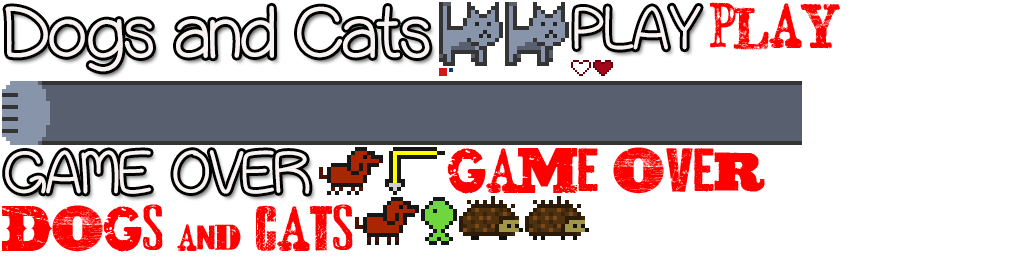
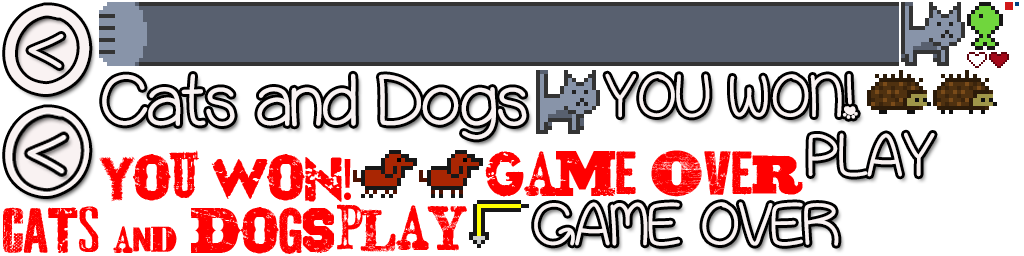
Added mobile touch controls

diff --git a/js/main.js b/js/main.js
@@ -119,7 +119,8 @@
             jumpedAt = 0,
             paw,
             pawTween,
-            pawHealth = 5;
+            pawHealth = 5,
+            controls;
 
         function create() {
             // init
@@ -173,7 +174,7 @@
             game.camera.follow(hero);
             
             // gun
-            gun = game.add.sprite(600, 400, 'entities', 'gun');
+            gun = game.add.sprite(3800, 50, 'entities', 'gun');
             gun.anchor.setTo(0.5, 1);
             bullets = game.add.group();
 
@@ -190,11 +191,15 @@
 
             // hud
             hud = new HUD();
+
+            // controls
+            controls = new Controls();
         }
 
         function update() {
             // hud
             hud.update();
+            controls.update();
             
             // collide the hero with the map
             game.physics.collide(hero, layer, function(h, t) {
@@ -220,6 +225,11 @@
                     }
                     else if(game.time.now - hurtAt > hurtNext) {
                         heroHealth --;
+                        var sign = e.x - h.x > 0 ? -1 : 1;
+                        h.body.velocity.x = 1000 * sign;
+                        if(h.body.touching.down) {
+                            h.body.velocity.y = -200;
+                        }
                         hurtAt = game.time.now;
                     }
                 });
@@ -230,7 +240,7 @@
                         enemy.scale.x = enemy.body.velocity.x > 0 ? 1 : -1;
                         enemy.animations.play('walk');
                     }
-                    if(enemy.body.velocity.y < 1 && ( enemy.body.touching.left || enemy.body.touching.right ) ) {
+                    if(enemy.body.velocity.y < 1 && enemy.body.touching.down && ( enemy.body.touching.left || enemy.body.touching.right ) ) {
                         enemy.body.velocity.y = -200 + Math.random() * 200;
                         enemy.body.velocity.x = enemy.scale.x > 0 ? enemyVelocity : -enemyVelocity;
                     }
@@ -256,20 +266,22 @@
             // hero movement
             hero.body.velocity.x = 0;
 
-            if (cursors.left.isDown) {
+            if (controls.left() || cursors.left.isDown) {
                 hero.body.velocity.x = -150;
                 hero.scale.x = -1;
             }
-            else if (cursors.right.isDown) {
+            else if (controls.right() || cursors.right.isDown) {
                 hero.body.velocity.x = 150;
                 hero.scale.x = 1;
             }
             //  jump
-            if (cursors.up.isDown && hero.body.touching.down) {
+            var jumping = controls.jump() || cursors.up.isDown;
+            if (jumping && hero.body.touching.down) {
                 hero.body.velocity.y = -300;
                 jumpedAt = game.time.now;
+                //console.log('x is ', hero.x);
             }
-            else if (cursors.up.isDown && hero.body.velocity.y < 0 && hero.body.velocity.y > -600 && game.time.now - jumpedAt < 200) {
+            else if (jumping && hero.body.velocity.y < 0 && hero.body.velocity.y > -600 && game.time.now - jumpedAt < 200) {
                 hero.body.velocity.y = hero.body.velocity.y - 40;
             }
             // animation
@@ -318,7 +330,7 @@
         function updateLevel() {
            switch(level.id) {
                 case 'level1':
-                     if(Math.random() > 0.5 && enemies.length < 25 && game.time.now - enemyAddedAt > 5000) {
+                     if(Math.random() > 0.5 && enemies.length < 25 && game.time.now - enemyAddedAt > 3000) {
                         addEnemy();
                         enemyAddedAt = game.time.now;
                     }
@@ -356,7 +368,7 @@
                             .to({x: xVel}, 1000)
                             .delay(delay)
                             .onComplete.add(function() {
-                                console.log('onPawComplete')
+                                console.log('onPawComplete');
                             });
                         pawTween.start();
                     }
@@ -510,6 +522,66 @@
         return {
             'create': create,
             'update': update
+        };
+    }
+
+    function Controls() {
+        var container,
+            btnLeft,
+            btnRight,
+            btnJump,
+            btnShoot,
+            leftDown = false,
+            rightDown = false,
+            jumpDown = false,
+            shootDown = false;
+
+        container = game.add.group();
+        container.x = container.y = 0;
+
+        btnLeft = new Phaser.Button(game, 20, 370, 'entities', null, null, 'btn_up', 'btn_up', 'btn_down');
+        container.add(btnLeft);
+        btnLeft.onInputDown.add(function() {
+            leftDown = true;
+        });
+        btnLeft.onInputUp.add(function() {
+            leftDown = false;
+        });
+
+        btnRight = new Phaser.Button(game, 220, btnLeft.y, 'entities', null, null, 'btn_up', 'btn_up', 'btn_down');
+        btnRight.scale.x = -1;
+        container.add(btnRight);
+        btnRight.onInputDown.add(function() {
+            rightDown = true;
+        });
+        btnRight.onInputUp.add(function() {
+            rightDown = false;
+        });
+
+        btnJump = new Phaser.Button(game, 780, btnLeft.y, 'entities', null, null, 'btn_up', 'btn_up', 'btn_down');
+        btnJump.rotation = Math.PI * 0.5;
+        container.add(btnJump);
+        btnJump.onInputDown.add(function() {
+            jumpDown = true;
+        });
+        btnJump.onInputUp.add(function() {
+            jumpDown = false;
+        });
+
+        return {
+            update: function() {
+                container.x = game.camera.x;
+                container.y = game.camera.y;
+            },
+            left: function() {
+                return leftDown;
+            },
+            right: function() {
+                return rightDown;
+            },
+            jump: function() {
+                return jumpDown;
+            }
         };
     }
 
